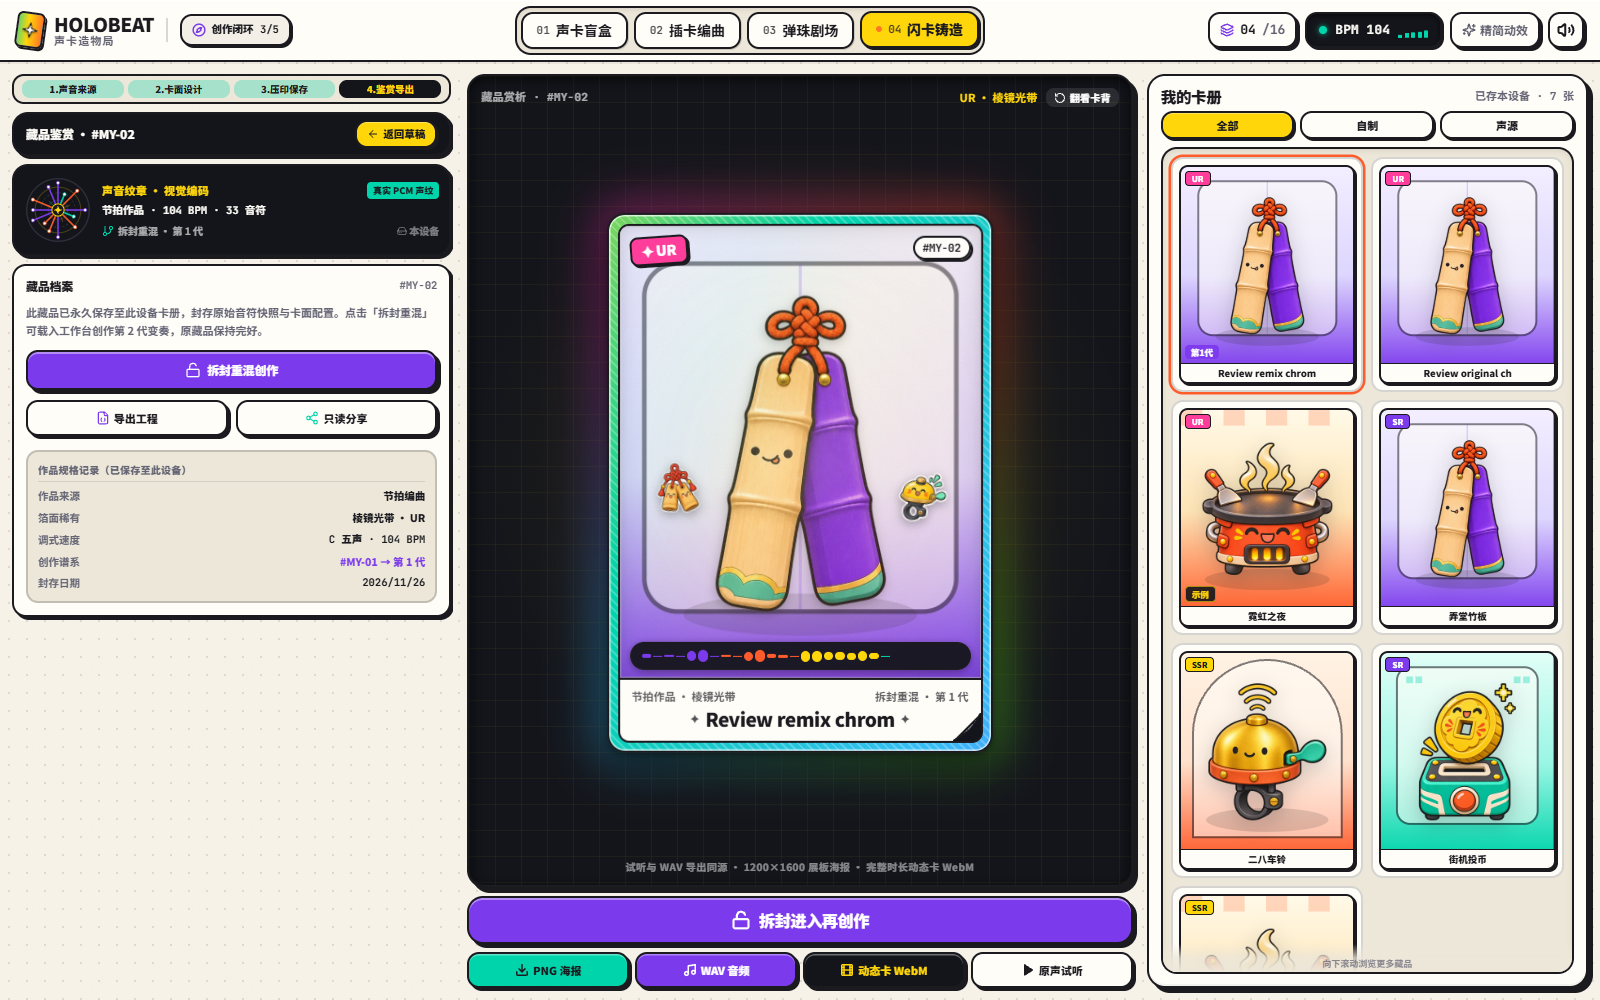
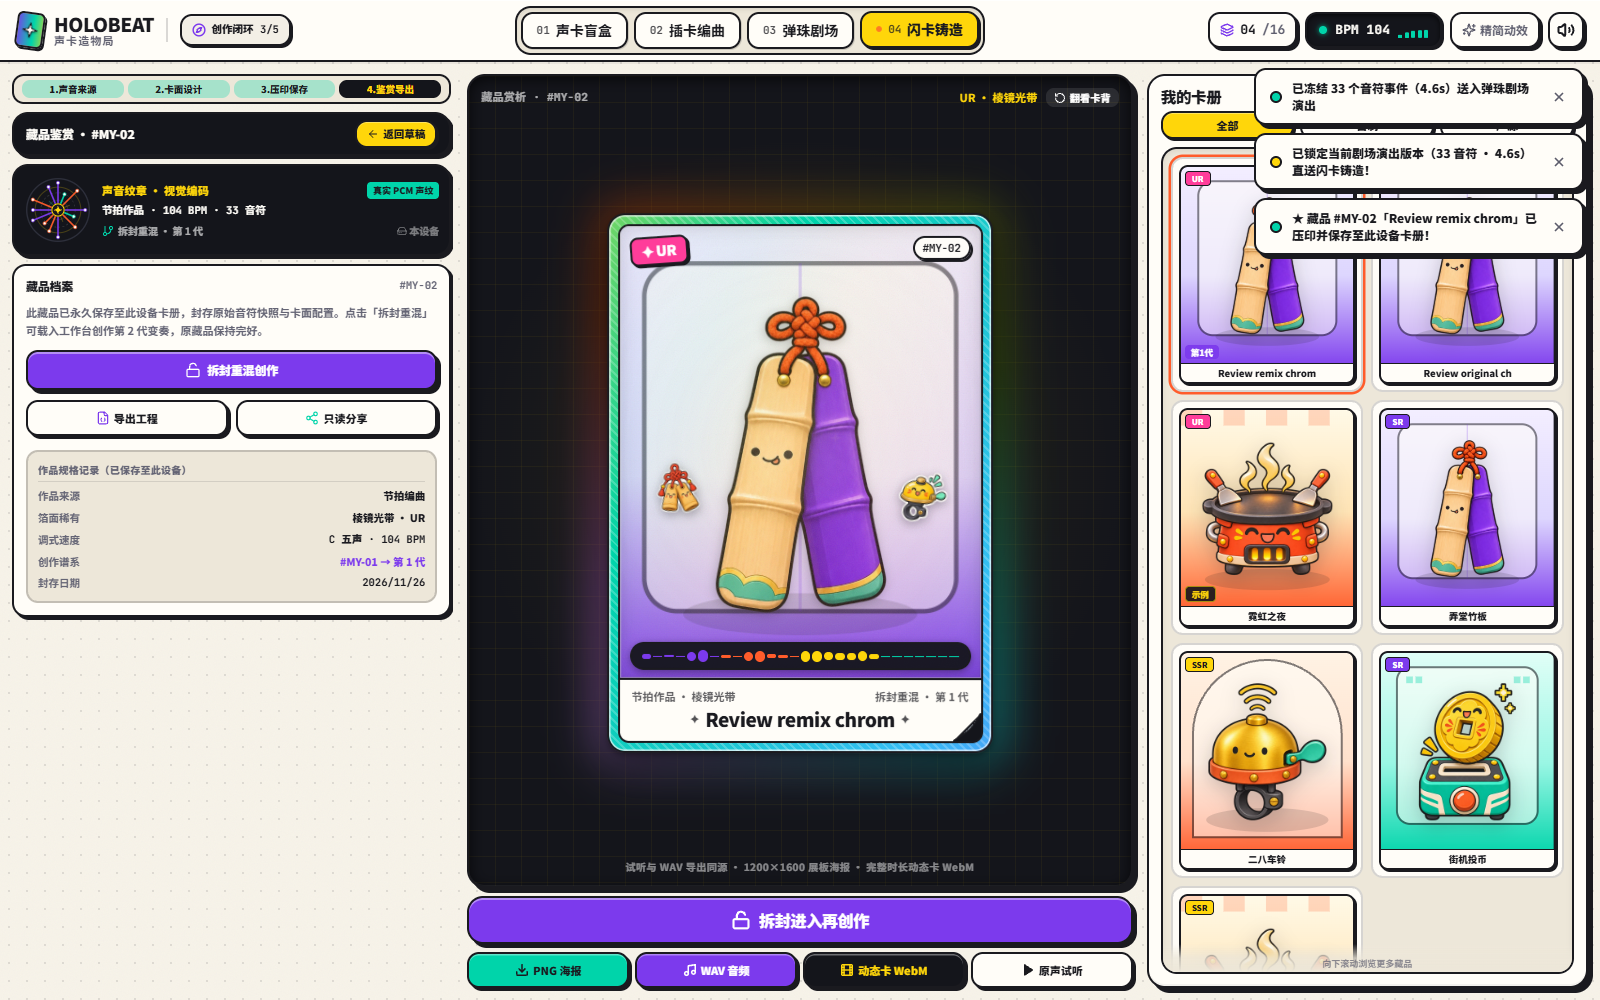
Document final main launch, PCM session ownership and verified browser results

diff --git a/07_showcase/reports/review_reliability_results.md b/07_showcase/reports/review_reliability_results.md
@@ -4,8 +4,8 @@
 
 ## 受测版本与方法
 
-- 产品代码：4820a617ee74de4727bda3b57661fb2812b9f6c2。
-- Production preview：4820a617ee74de4727bda3b57661fb2812b9f6c2，与定点E2E相同。
+- 产品代码：92fc0753008abb08d9d0b7cc14deb138cb28aabc。
+- Production preview：92fc0753008abb08d9d0b7cc14deb138cb28aabc，与定点E2E相同。
 - 录音恢复回归：4de723ee85d48122cbf22e7681228ad2586973fa；此后只修改归档客户端的canonical父编号核对，没有变更录音/存储/音频引擎。
 - 最终交付在这些提交上增加报告、截图、README及CI运行时配置；main 启动验证另见下方记录。
 - 本机 Node 24.15.0；GitHub Actions 配置与本机一致的 Node 24.15.0。
@@ -17,7 +17,7 @@
 | 问题 | 根因与修复 | 真实验证 |
 |---|---|---|
 | V2 覆盖有效草稿 | 非空快照转换失败原先变成null；现在明确拒绝，转换后统一当前Schema，存储再次验证；保存前不修改草稿/选择/编号/卡册 | broken snapshot、非法pinballEvents/scene/remixOrigin；失败后刷新恢复原作；合法空草稿、速度与零力度保留 |
-| Forge 取消后仍响起 | 请求身份原先在渲染后建立；现在点击时建立，覆盖缓存、渲染、解码、播放，换卡/隐藏/卸载仅清理所属会话 | 冷缓存播放→暂停/换卡/切页/A停B；原生AudioBufferSourceNode stop/disconnect、旧onended清空 |
+| Forge 取消后仍响起 | 请求身份原先在渲染后建立；现在点击时建立，覆盖缓存、渲染、解码、播放，换卡/隐藏/卸载仅清理所属会话；只按不可变快照ID识别作品，等价PCM元数据落盘不误停试听 | 冷缓存播放→暂停/换卡/切页/A停B；原生AudioBufferSourceNode stop/disconnect、旧onended清空 |
 | 原录音/量化/Beat叠播 | 不同入口只停止部分音源；入口现在同步取消其他作品会话及准备任务，停止按钮停止全部作品试听 | 四种切换及停止；检查原录音timer、buffer音源、释放声部；跨过最后原音符时间观察旧回调不再执行 |
 | 卡册编号冲突 | 全库serial/code唯一；SQLite user_version=3改为libraryId+本地编号唯一；旧数据使用legacy命名空间 | 两独立浏览器各自#MY-01成功；v0/v2备份升级、重复迁移、保留旧分享 |
 | 归档恢复身份 | 导入后的本地ID被当成冲突；现在返回canonicalId和业务结果，客户端验证完整内容再分享 | 下载→另一卡册导入→归档/分享返回原归档；原作和重混均重新导入、父编号变化后也正确恢复；异内容复用requestId仍409；去重收据绑定请求 |
@@ -45,7 +45,7 @@
 | 前端 npm run build | 通过；既有大bundle、静态/动态混合导入提示保留 |
 | 后端 npm run typecheck | 通过 |
 | 后端 npm test | 52/52，保留原47项 |
-| Chrome / Edge定点E2E | 各18/18，JS错误0 |
+| Chrome / Edge定点E2E | 各19/19，JS错误0 |
 | SQLite真实进程重启 | 7→7作品（含历史原件） |
 | Production root/subpath × Chrome/Edge | 4/4；每组真实解码29项WebP，资源错误0 |
 | Production WAV下载 | 4/4 RIFF/WAVE；48kHz、双声道、16bit、dataSize=1080768、5.629秒；非静音，最后10ms峰值0 |
@@ -95,5 +95,11 @@
 - 本轮生产WAV为黑盒实测；旧完整WAV/FX/WebM矩阵报告保留，未冒充本轮全部重跑。
 - 不覆盖不同机器同时编辑同库、断电级损坏恢复及所有声卡驱动组合。
 - 无完整原件的历史音乐缺失保留为原始存档下载，不承诺完整重混。
+- 取消试听立即使所属请求与音源失效；已经启动的共享离线PCM计算可能完成缓存填充，但旧请求不能继续解码、启动声音或更新新请求UI。
 
 修复前原生音频复现：隔离e9ad983中，Chrome实际观察到冷缓存暂停后AudioBufferSource仍启动、原录音与快照同时存活、stopTransport后两者仍存活；[修复前机器证据](review_before_metrics.json)。本轮对应双浏览器测试断言这些旧行为已消除。
+
+## main 一键启动验证
+
+Start-HoloBeat.cmd -CheckOnly：通过，Source=D:\HoloBeat，Branch=main。
+使用 .cache/review-main-start.sqlite 临时数据库真实启动两次：第一次验证bba2e21，第二次验证92fc075。入口只重启自己管理的进程（frontend 15040→44908，backend 1904→49044），没有停止其他服务。两次/health=200、/generate=404，5173实际加载根目录最新源码；第二次另用Chrome/Edge独立上下文，各解码20项当前界面图片、JS错误0。见[main启动机器结果](review_main_start_metrics.json)。最后通过-Stop关闭本轮临时服务。默认用户SQLite未打开；下次普通双击仍指向主目录main及原默认档案路径。

diff --git a/README.md b/README.md
@@ -12,7 +12,7 @@
 
 双击根目录 [Start-HoloBeat.cmd](./Start-HoloBeat.cmd)，从当前 **main** 的05_web_app / 06_backend源码启动。入口检查分支、依赖和进程归属；见[一键启动说明](./一键启动.md)。
 
-前端 **57/57**、后端 **52/52**；Chrome/Edge定点回归各 **18/18**，录音恢复各 **14/14**，production根路径与/holobeat/四组验证通过。详见[当前复审报告](./07_showcase/reports/review_reliability_results.md)、[机器结果](./07_showcase/reports/review_metrics.json)、[生产验证](./07_showcase/reports/review_preview_metrics.json)。
+前端 **57/57**、后端 **52/52**；Chrome/Edge定点回归各 **19/19**，录音恢复各 **14/14**，production根路径与/holobeat/四组验证通过。详见[当前复审报告](./07_showcase/reports/review_reliability_results.md)、[机器结果](./07_showcase/reports/review_metrics.json)、[生产验证](./07_showcase/reports/review_preview_metrics.json)。
 
 | 本轮Chrome：谱系归档与真实PCM | 本轮Edge：生产子路径运行 |
 | --- | --- |
